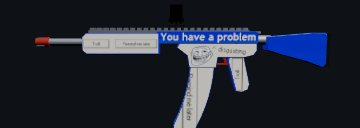
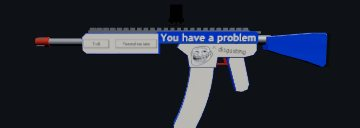
Skins: right handguard matches the left, and $ keeps its bar
You Have a Problem, right side: the handguard follows the left again
(the 180 turn and upside-down flip are gone), same buttons in the same
place along the gun, and the text areas round "Troll", "Remind me later"
and the title are back so the words read correctly on the right. Includes
the user's latest saved edits ("$TROLL" on the right side, new title).

Pixel lettering: thin strokes that are only faint grey at the lettering's
real size (the bar through a $, a |) are kept with a lower ink cut-off in
their own columns; before, "$" came out as "S".

diff --git a/assets/games/troll-ops/skins.js b/assets/games/troll-ops/skins.js
@@ -57,17 +57,17 @@ export const SKINS = [
     blurb: "An error dialog that shoots back.",
     palette: { trim: "#1f4fd1", ink: "#10131c", metal: 0xb9bcc2, accent: 0xd9492b },
     crops: {
-      upper: [0.185, 0.13, 0.47],
+      upper: [0.235, 0.12, 0.47],
       lower: [0.31, 0.46, 0.34, 0, 1],
       handguard: [0.685, 0.81, 0.57],
       stock: [0.786, 0.135, -0.01],
-      grip: [0.505, 0.8, 0.118, 90],
-      mag: [0.81, 0.72, 0.17, -90],
+      grip: [0.567, 0.605, 0.029, 90],
+      mag: [0.81, 0.618, 0.032, -90],
     },
     lines: [{ box: [0.169, 0.325, 0.58, 0.454], text: "^ disgusting", dx: 0.005, dy: 0.005, size: 0.9, rot: -6, flip: 1 }],
     cutouts: [{ name: "trollface", box: [0.03, 0.3, 0.147, 0.62], dx: 0.287, dy: 0.005, size: 0.85 }],
-    textAreas: [[0.02, 0.05, 0.465, 0.2], [0.47, 0.72, 0.54, 0.83], [0.7, 0.72, 0.91, 0.83]],
-    right: {"lines":[{"text":""}],"newLines":[{"box":[0.02,0.04,0.47,0.228],"text":"I Forgive You","scale":0.66,"smooth":1,"bg":"rows","color":"#ffffff","shadow":"#0a1f7a"}],"flipV":["handguard"]},
+    textAreas: [[0.02, 0.05, 0.465, 0.2], [0.472, 0.722, 0.537, 0.828], [0.702, 0.722, 0.91, 0.828]],
+    right: {"lines":[{"text":"$TROLL","dx":0.005,"dy":0.005,"size":0.9,"rot":-6,"flip":1}],"newLines":[{"box":[0.02,0.04,0.47,0.228],"text":"Don't even joke with me lad","scale":0.66,"smooth":1,"bg":"rows","color":"#ffffff","shadow":"#0a1f7a","size":0.6,"dx":-0.115}],"crops":{"upper":[0.176,0.13,0.352]},"cutouts":[{"dx":0.287,"dy":0.005,"size":0.9,"rot":0,"flip":0}]},
   },
   {
     id: "green", name: "Green Room", banner: "banner-03.jpg",

diff --git a/troll-ops.html b/troll-ops.html
@@ -12,7 +12,7 @@
   <link rel="preconnect" href="https://fonts.gstatic.com" crossorigin>
   <link href="https://fonts.googleapis.com/css2?family=Oswald:wght@500;600;700&family=DM+Sans:wght@500;700;900&family=DM+Mono:wght@500;700&display=swap" rel="stylesheet">
   <link rel="stylesheet" href="assets/css/troll-leaderboard.css?v=lb-engine-v1">
-  <link rel="stylesheet" href="assets/games/troll-ops/style.css?v=to-skins12">
+  <link rel="stylesheet" href="assets/games/troll-ops/style.css?v=to-skins13">
 </head>
 <body>
 
@@ -586,7 +586,7 @@
   </script>
   <script src="assets/js/troll-leaderboard.js?v=lb-engine-v1" defer></script>
   <script src="assets/games/troll-ops/leaderboard.js?v=to-lb-p2" defer></script>
-  <script type="module" src="assets/games/troll-ops/game.js?v=to-skins12"></script>
+  <script type="module" src="assets/games/troll-ops/game.js?v=to-skins13"></script>
 
   <script src="https://cdn.jsdelivr.net/npm/@supabase/supabase-js@2.110.3" integrity="sha384-uVefCux0Kf6w34gQVv8+jUPUwvwFUdnrcwI1kOJHs7sfPPXdDDucwcrPrppD6oUe" crossorigin="anonymous"></script>
   <script src="https://mayurski-art.github.io/assets/js/troll-accounts.js"></script>

diff --git a/tools/troll-skin-draw.js b/tools/troll-skin-draw.js
@@ -201,8 +201,16 @@ function pixelText(l) {
   sg.fillText(l.text, 1, Math.round(px * 1.05));
   const d = sg.getImageData(0, 0, w, h);
   const [r, gg, b] = rgb(l.color || "#000000");
+  // Thin strokes that are only faint grey at this size (the bar through a
+  // $) would vanish at the usual cut-off, so their columns use a lower one.
+  const faint = new Uint8Array(w);
+  for (let k = 0; k < l.text.length; k++) {
+    if (!"$|".includes(l.text[k])) continue;
+    const x0 = 1 + sg.measureText(l.text.slice(0, k)).width, x1 = 1 + sg.measureText(l.text.slice(0, k + 1)).width;
+    for (let x = Math.floor(x0); x < Math.ceil(x1) && x < w; x++) faint[x] = 1;
+  }
   for (let i = 0; i < d.data.length; i += 4) {
-    const on = d.data[i + 3] > 160;
+    const on = d.data[i + 3] > (faint[(i / 4) % w] ? 60 : 160);
     d.data[i] = r; d.data[i + 1] = gg; d.data[i + 2] = b; d.data[i + 3] = on ? 255 : 0;
   }
   sg.putImageData(d, 0, 0);
